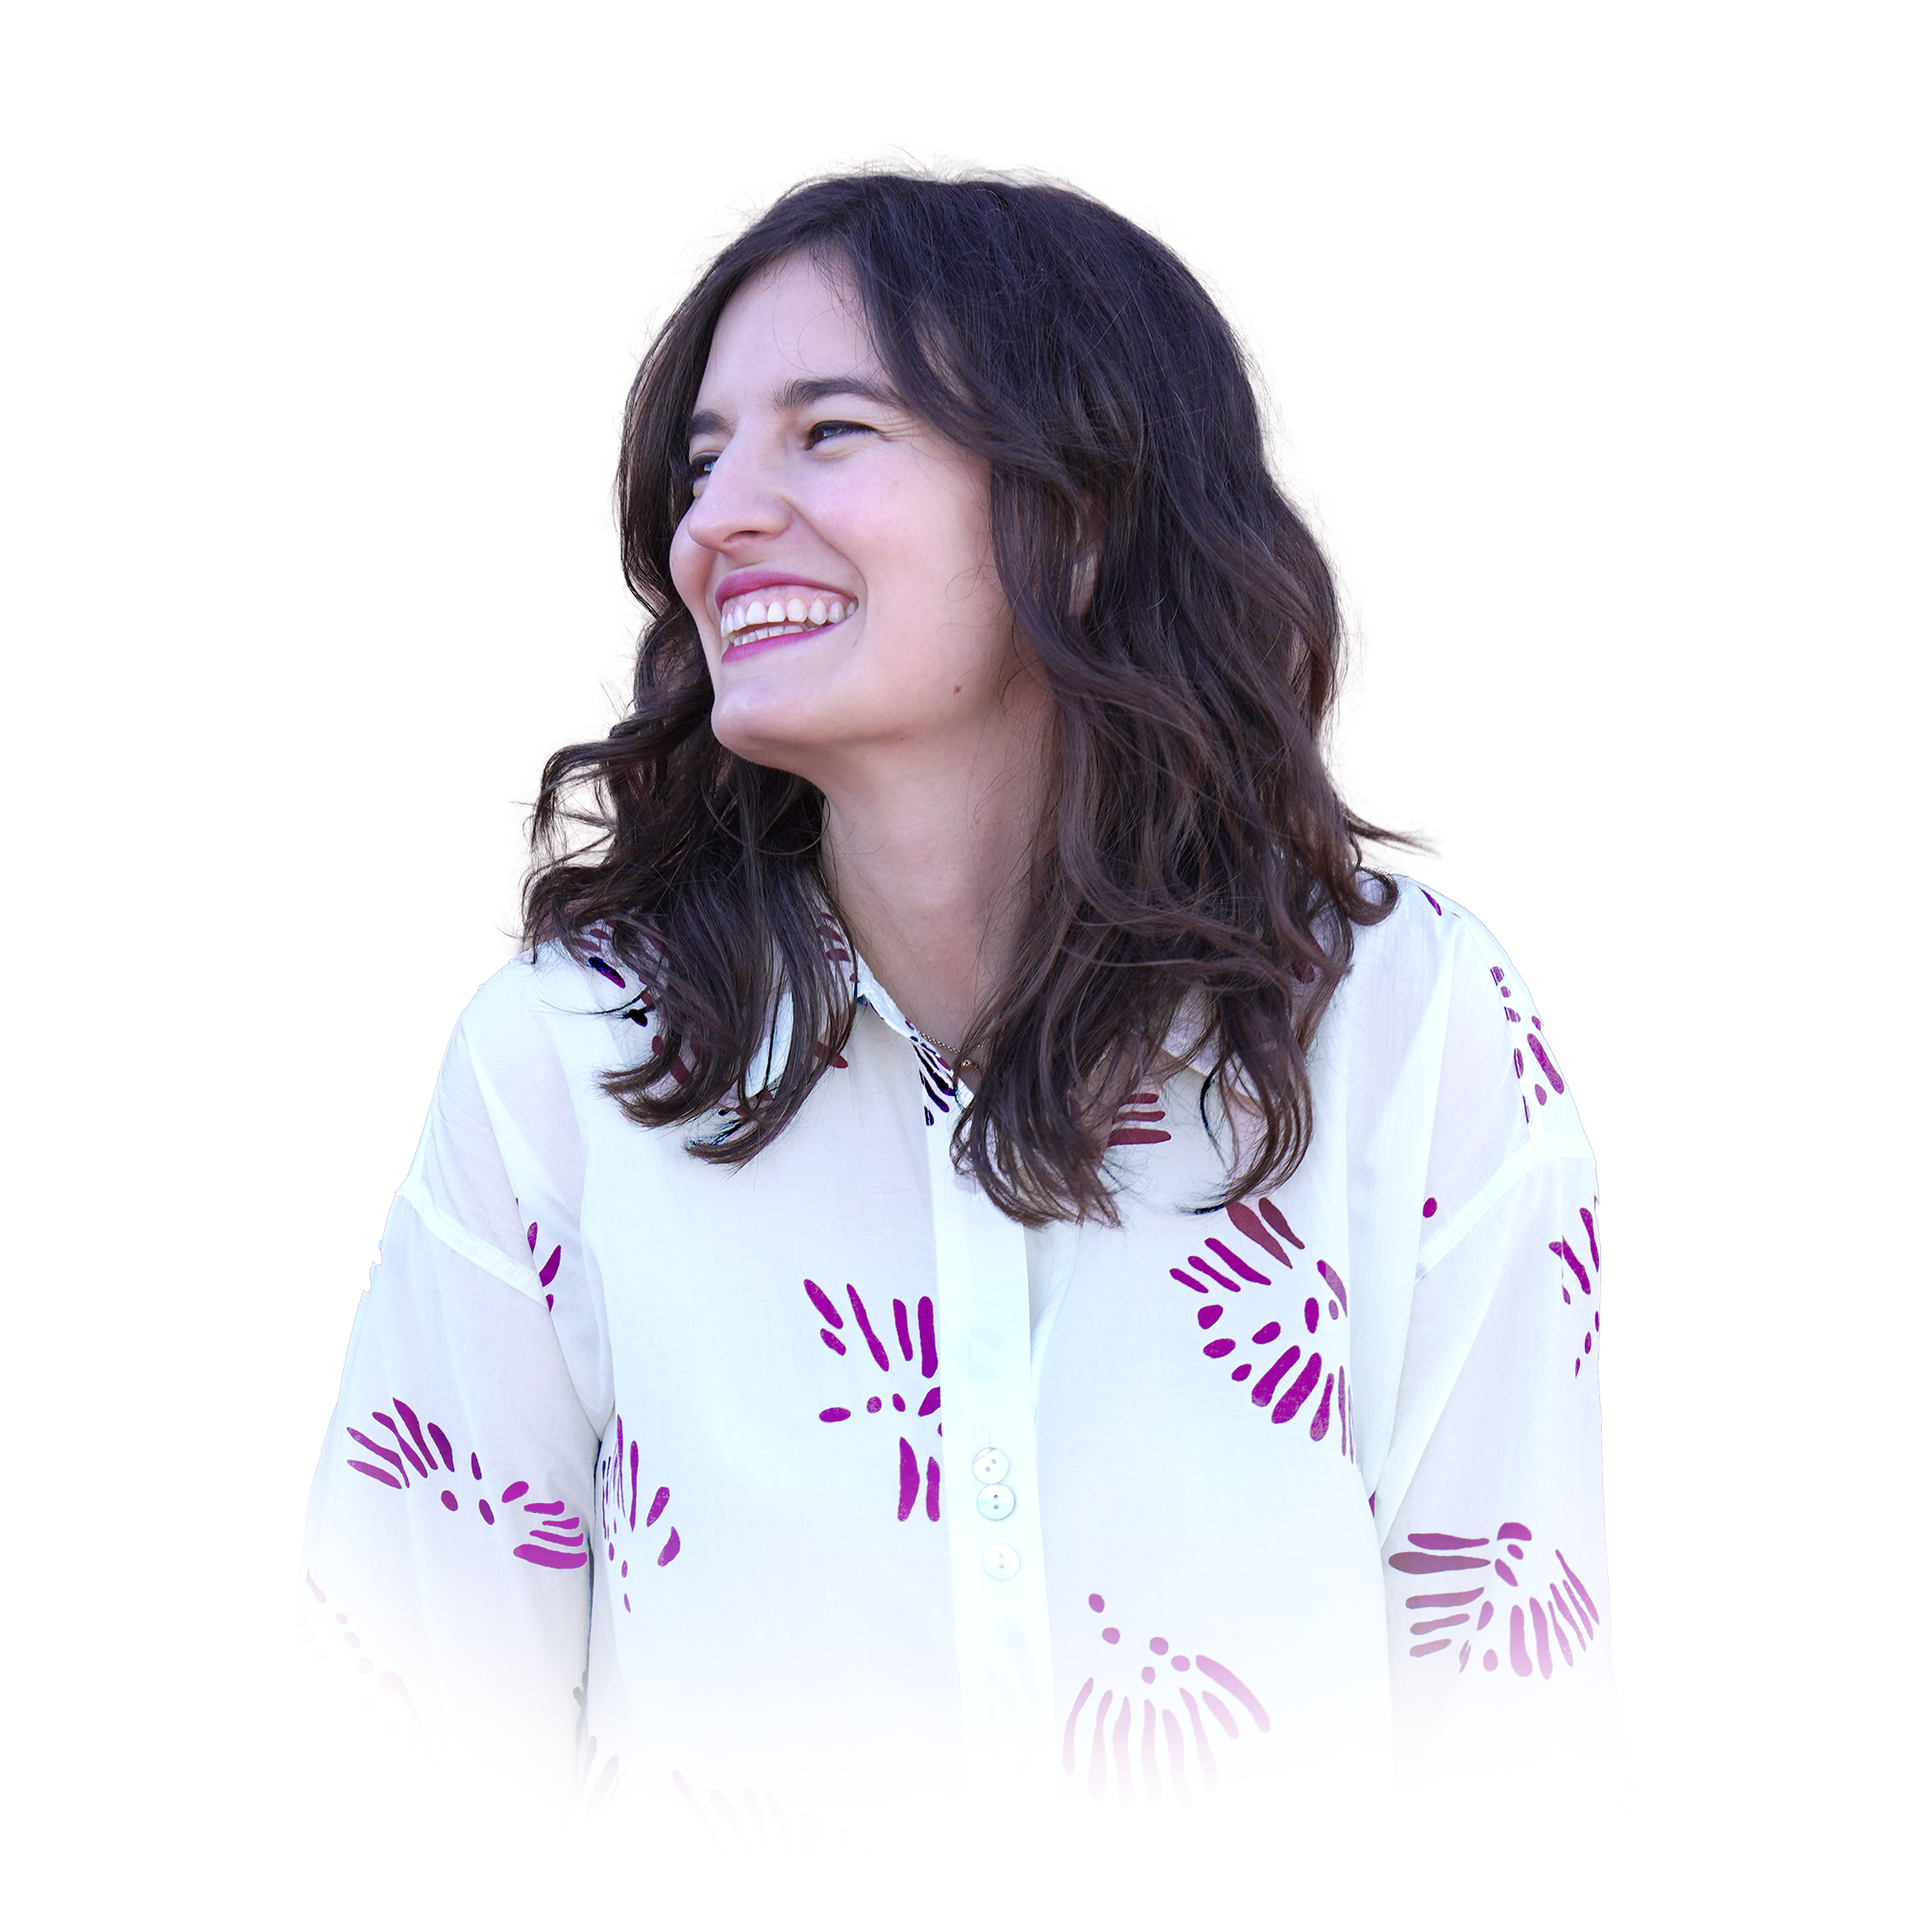
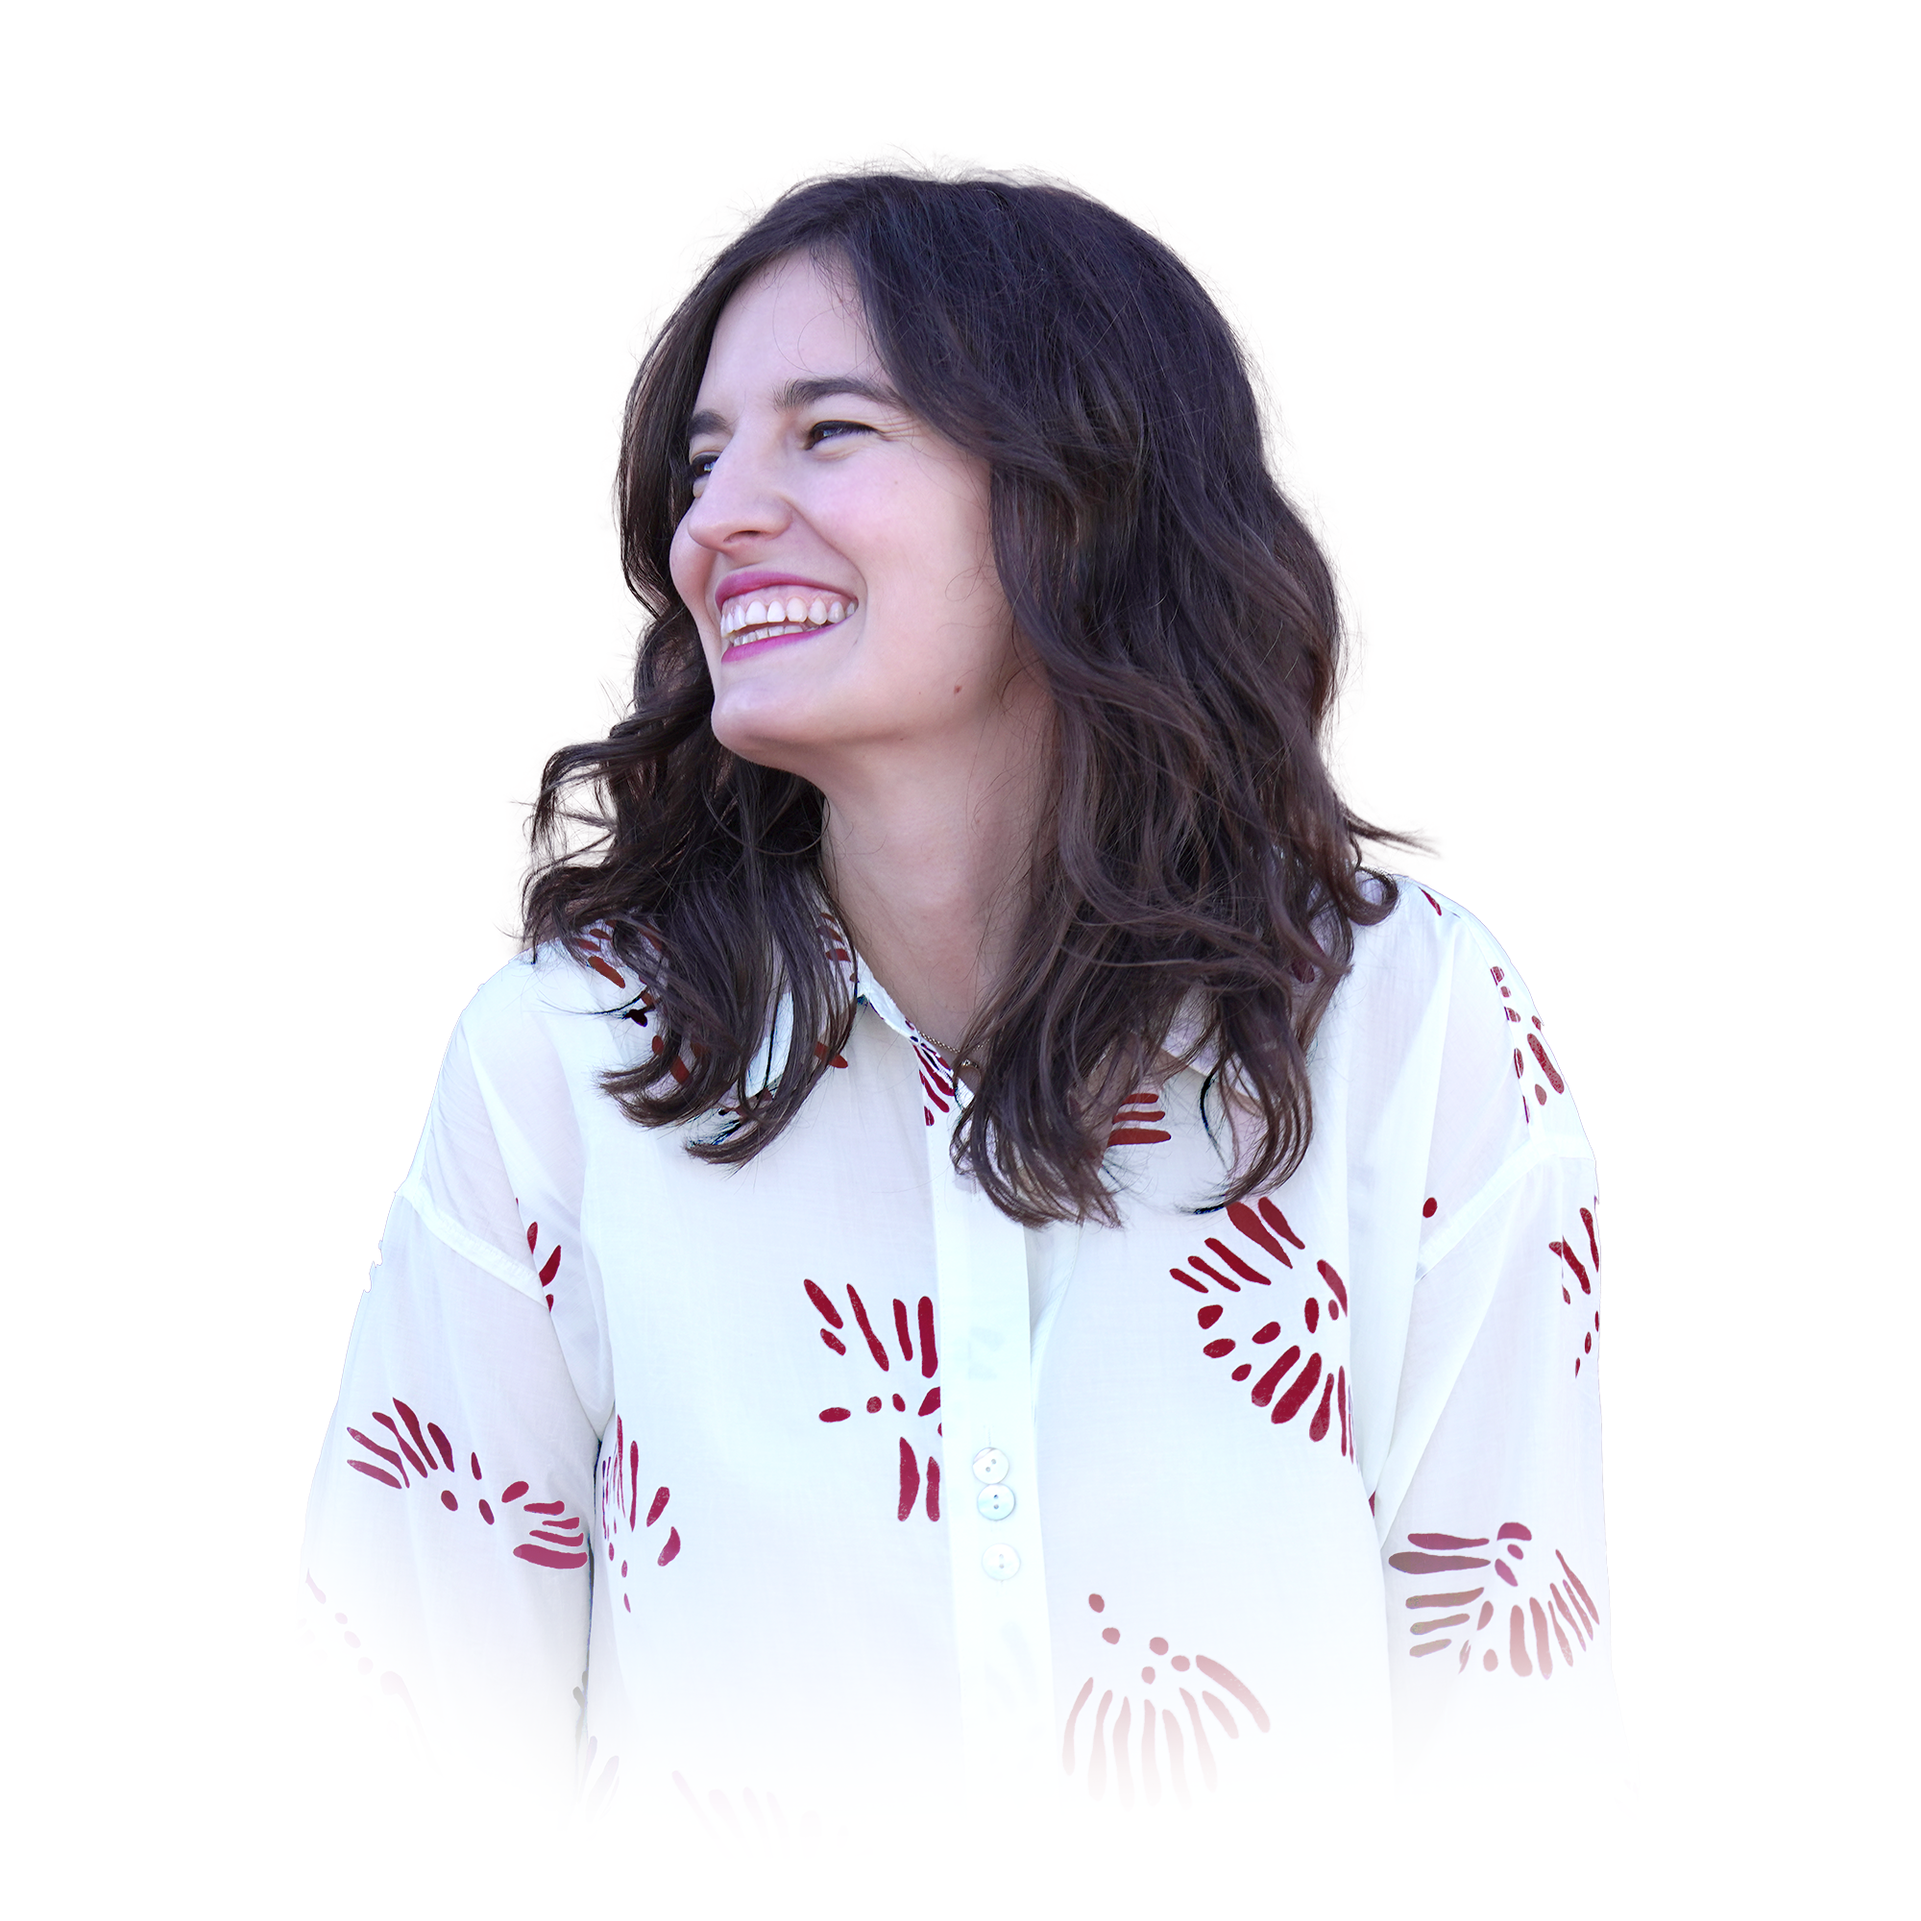
changes before trying svg animation

diff --git a/index.html b/index.html
@@ -36,7 +36,7 @@
     <!-- Cover -->  
     <section class="cover--area">
         <div class="margin-side--10">
-            <img src="Images/FotoAndreaGiménez.png" alt="Andrea Gimenez Personal Picture" class="cover--picture">                
+            <img src="Images/FotoAndreaGiménezLight.png" alt="Andrea Gimenez Personal Picture" class="cover--picture">                
             <h1 class="h2 text-align--center color--vividBurgundy--cover font-weight--bold paddin---botom0">UX/UI Front-End Developer</h1>
             <p class="text-align--center color--vividBurgundy--cover">Andrea Giménez Usó</p>
         </div>
@@ -236,9 +236,8 @@
         <div class="main--area--content margin-side--15">
             <p>Hello! My name is Andrea and I am a <span class="text--highlight">UX/UI designer, front-end developer</span>, and marketer based in Valencia.</p>
             <p>I believe in the power of <span class="text--highlight">good design and communication</span> to make the internet a more accessible, creative, and source of information environment.</p>
-            <p>I would describe my design style as minimalist, clean, and balanced. I aim for compositions that are visually appealing and easy to understand for all audiences. My <span class="text--highlight">goal is to create designs that are both aesthetically pleasing and accessible. </span></p>
-            <p>I took an unconventional path to become a developer. While my background is in marketing and sales, I have worked for small companies where I had to take on a variety of tasks. This is where I discovered my passion for web design.</p>
-            <p>Through self-study and training at ESAT, I am <span class="text--highlight">working towards becoming a full front-end developer and pursuing my passion.</span></p>
+            <p>I would describe my design style as minimalist, clean, and balanced. I aim for compositions that are <span class="text--highlight">aesthetically pleasing and easy to understand for all audiences</span>.</p>            <p>I took an unconventional path to become a developer. While my background is in marketing and sales, I have worked for small companies where I had to take on a variety of tasks. This is where I discovered my passion for web design.</p>
+            <p>Through self-study and training at ESAT (Videogames Digital Media Development School), I am working towards <span class="text--highlight">becoming a full front-end developer and pursuing my passion</span>.</p>
         </div>
     </section>
     <!-- End of about -->

diff --git a/style.css b/style.css
@@ -555,7 +555,7 @@ footer li {
             align-items: center;
             flex-wrap: wrap;
             justify-content: center;
-            background-image: url('Images/coverbackgrounddesktop.png'); /*backgrounds no funcionan*/
+            background-image: url('Images/coverBg.png');
             background-repeat: no-repeat;
             background-position: bottom left;
             background-size: cover;
@@ -651,7 +651,7 @@ footer li {
         }
 
         body {
-            background-image: url('Images/coverbackgrounddesktop.png'); /*backgrounds no funcionan*/
+            background-image: url('Images/CoverBgTablet.png');
             background-repeat: no-repeat;
             background-position: bottom left;
             background-size: contain;
